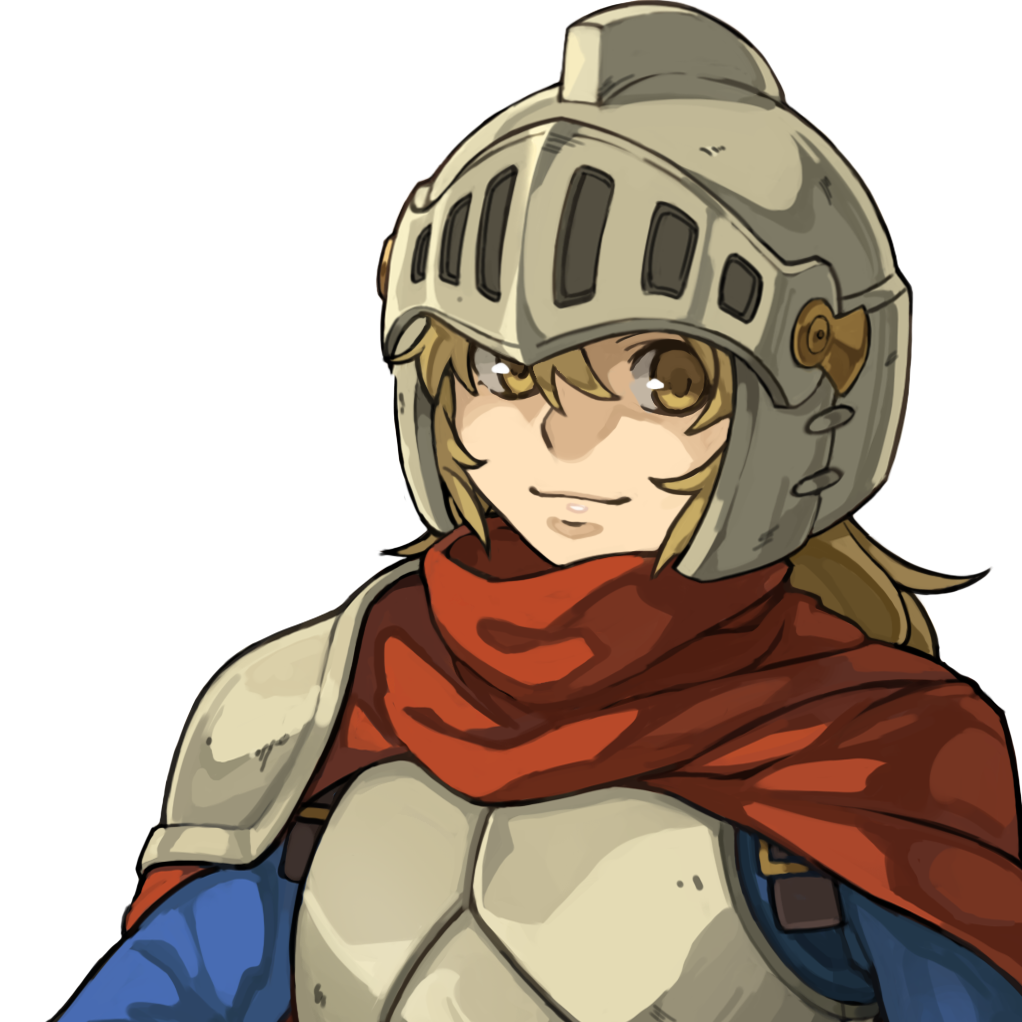
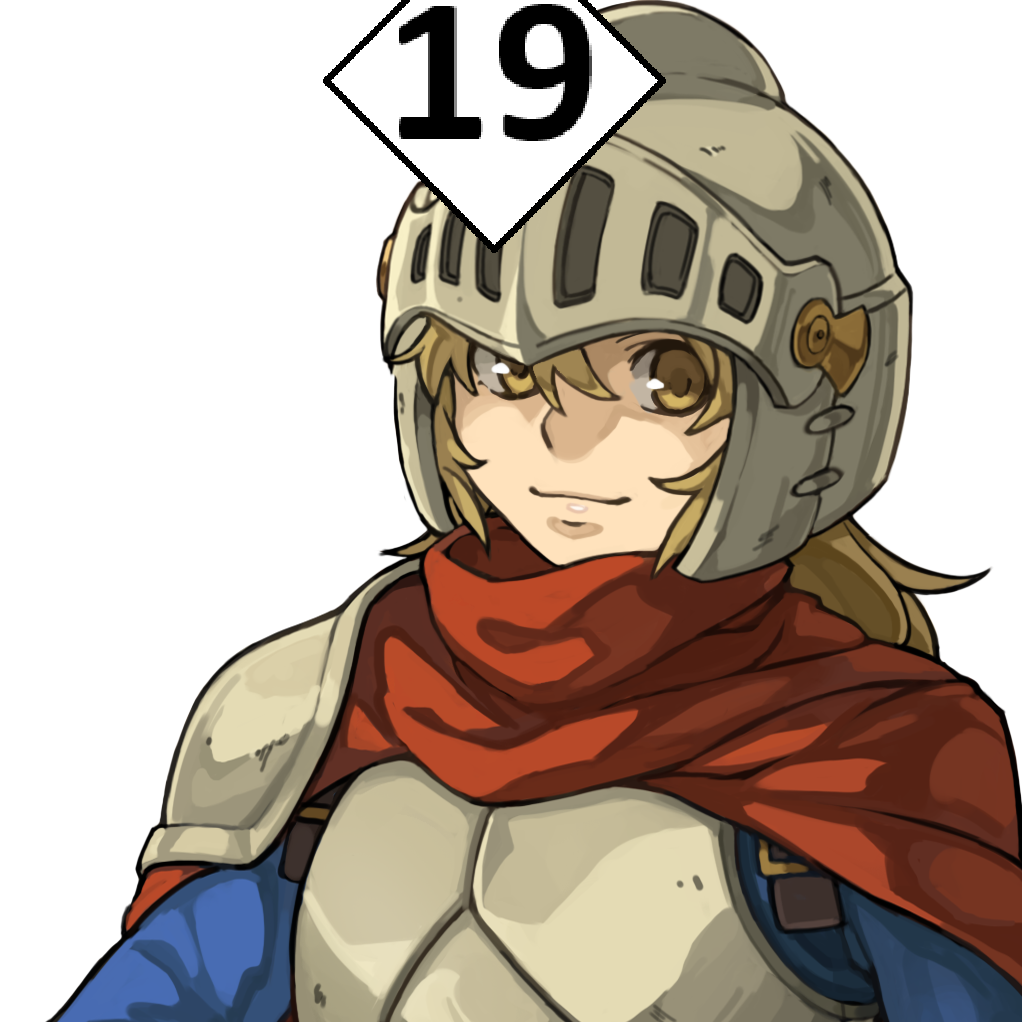
kight portrait 관련 추가 함수 및 변수 knight클래스에 추가

diff --git a/Knight.py b/Knight.py
@@ -3,16 +3,24 @@ from pico2d import load_image
 
 class Knight:
     image = None
+    p_image = None
     def __init__(self):
         self.x, self.y = 0, 0
+        self.p_x, self.p_y = 0, 0
         self.frame = 0
         self.face_dir = 0
         self.Hp = 1000
         self.Def = 10
         self.Atk = 100
+        self.number = 1
         if self.image is None:
             self.image = load_image('knight_01.png')
+        if self.p_image is None:
+            self.p_image = load_image('Knight_portrait.png')
     def draw(self):
         self.image.clip_draw(0, 0, 100, 100, self.x, self.y)
+    def set_number(self, number):
+        self.number = number
+        self.p_x, self.p_y = (number-1)*100+50, 50
     def update(self):
         pass
